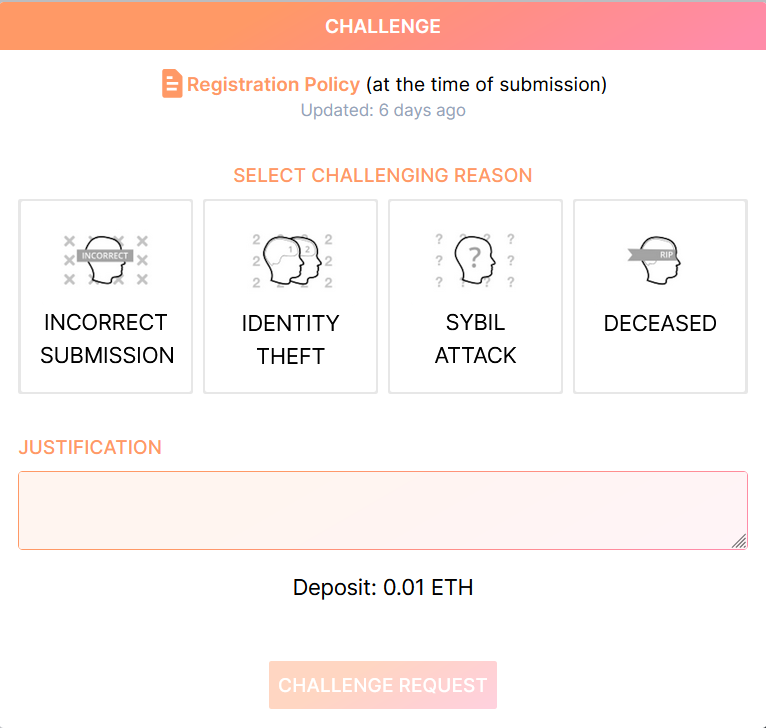
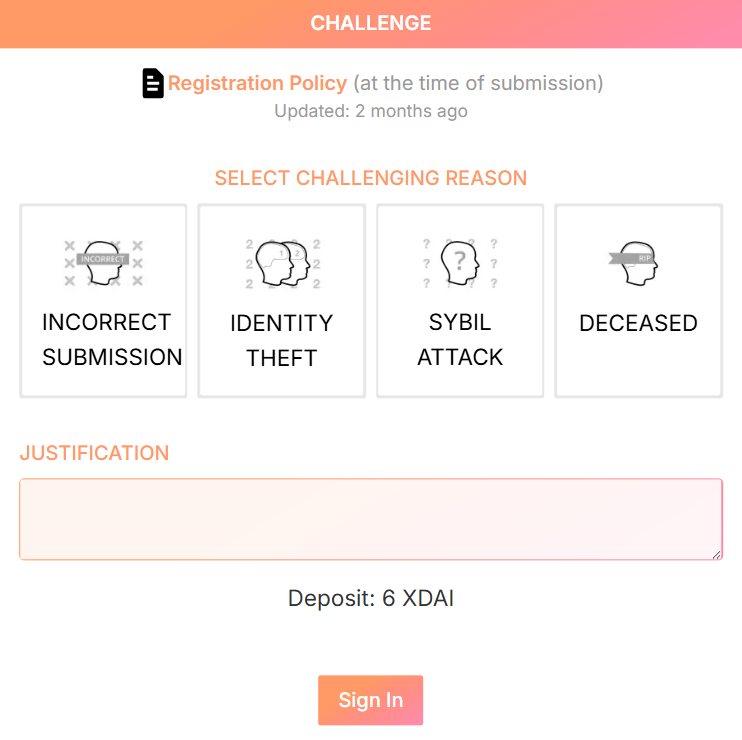
GITBOOK-397: change request with no subject merged in GitBook

diff --git a/products/proof-of-humanity/proof-humanity-2.0-tutorial-remove-and-challenge.md b/products/proof-of-humanity/proof-humanity-2.0-tutorial-remove-and-challenge.md
@@ -12,13 +12,13 @@ description: >-
 {% tab title="5/ Challenge a claim" %}
 ### 5/ <mark style="color:orange;">Challenge a claim</mark>
 
-If you want to help to maintain the PoH registry and earn money by spotting fake, sybil, deceased and incorrect profiles, you will need to learn how to challenge these types of profiles when they are in '_<mark style="color:blue;">Pending Claim</mark> or <mark style="color:orange;">Pending Revocation</mark>_' status.
+If you want to help to maintain the PoH registry and earn money by spotting fake, sybil, deceased and incorrect profiles, you will need to learn how to challenge these types of profiles when they are in '_<mark style="color:blue;">In Review</mark> or <mark style="color:orange;">Removal Proposed</mark>_' status.
 
-**5.a/ Browse through the '**_<mark style="color:blue;">**Pending Claim**</mark>_**' or '**_<mark style="color:orange;">**Pending Revocation**</mark>_**' profiles and check them**
+**5.a/ Browse through the '**_<mark style="color:blue;">**In Review**</mark>_**' or '**_<mark style="color:orange;">**Removal Proposed**</mark>_**' profiles and check them**
 
-* Go to the [PoH app](https://v2.poh.id/) and filter the profiles for '_<mark style="color:blue;">Pending Claim</mark>_ or '_<mark style="color:orange;">Pending Revocation</mark>_' profiles. The filter is on the right just above the profiles&#x20;
+* Go to the [PoH app](https://v2.poh.id/) and filter the profiles for '_<mark style="color:blue;">**In Review**</mark>_ or '_<mark style="color:orange;">**Removal Proposed**</mark>_' profiles. The filter is on the right just above the profiles&#x20;
 
-<div><img src="../../.gitbook/assets/pending claim.png" alt=""> <figure><img src="../../.gitbook/assets/pending revocation.png" alt=""><figcaption></figcaption></figure></div>
+![](../../.gitbook/assets/status.png)
 
 * Once you have applied the filter, click on each profile one by one to check if their information, photo, and video follow the PoH guidelines or if you can spot deepfake photo and videos.
 
@@ -28,13 +28,13 @@ You can use deepfake detection tools such as [https://deepware.ai/](https://deep
 
 * If you find a profile that violates the guidelines, ensure that you have enough funds in your wallet and challenge the profile by clicking on the '<mark style="color:orange;">Challenge'</mark> button at the top right of the profile page.
 
-![](<../../.gitbook/assets/challenge period.png>)
+![](../../.gitbook/assets/challenge.png)
 
-* This will open a modal asking you for a reason to the challenge. Select the relevant reason and include justification then click on '<mark style="color:orange;">Challenge Request</mark>'.
+* This will open a modal asking you for a reason to the challenge. Select the relevant reason and include justification then click on '<mark style="color:orange;">Sign in</mark>'.
 
-![challenge prompt on Gnosis network](<../../.gitbook/assets/challenge reason gnosis (1).png>)
+![challenge prompt on Gnosis network](<../../.gitbook/assets/challenge reason.png>)
 
-* Send the transaction with the challenger deposit. Once the transaction is validated, the profile will soon go to '<mark style="color:orange;">Disputed Claim</mark> or <mark style="color:orange;">Disputed Revocation</mark>' status.
+* Send the transaction with the challenger deposit. Once the transaction is validated, the profile will soon go to '<mark style="color:orange;">Challenged</mark> or <mark style="color:orange;">Removal Challenged</mark>' status.
 
 <figure><img src="../../.gitbook/assets/disputed claim.png" alt=""><figcaption><p>a sample dispute from a Sepolia testnet profile</p></figcaption></figure>
 
